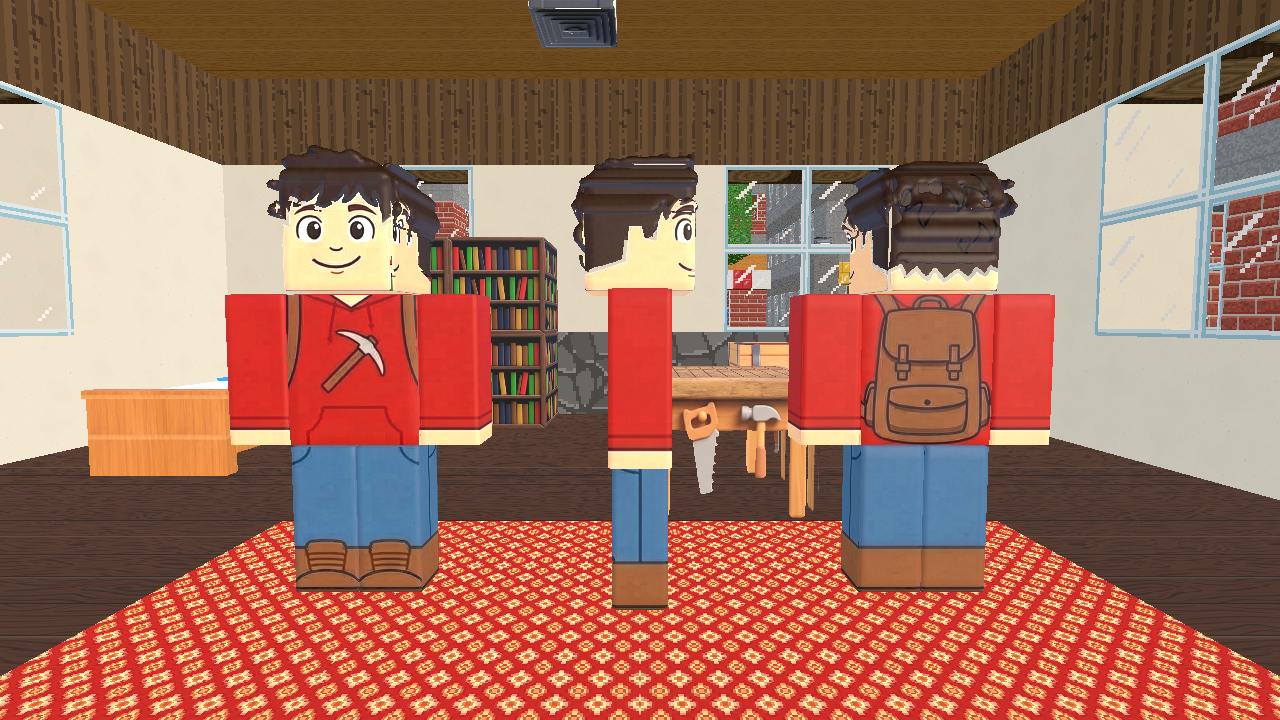
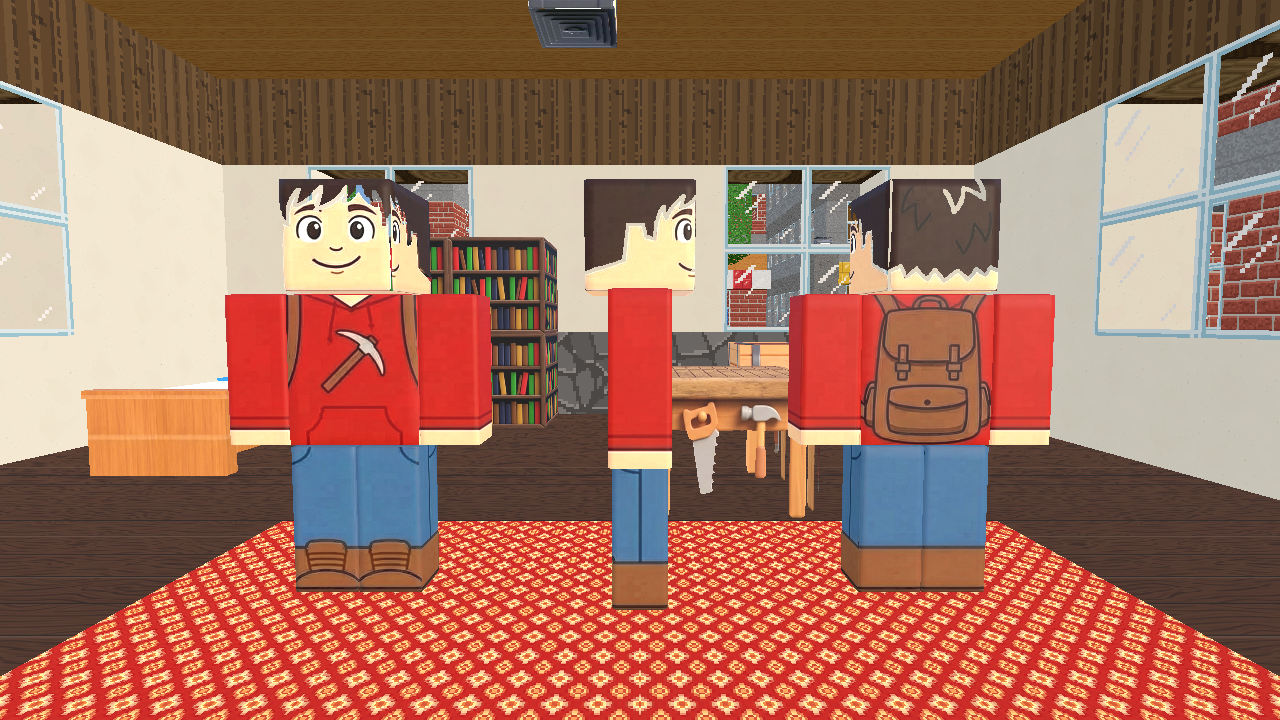
fix: Emir'in 3D saçı kaldırıldı — saç küp kafanın yüzlerine çizili (daha temiz)
Claude-Session: https://claude.ai/code/session_01VF2h6snkXtCQi9ysLrDNVf

Changed region(s): [[0.6562, 0.2139, 0.8125, 0.3667], [0.1875, 0.1833, 0.3438, 0.3361], [0.4375, 0.2139, 0.5625, 0.3667]]

diff --git a/tools/art/build_heads.py b/tools/art/build_heads.py
@@ -17,6 +17,8 @@ SRC = os.path.join(os.path.dirname(__file__), "sources")
 OUT = "assets/textures/actors/"
 S = 1.8 / 620.0
 RES = 50
+## Küp kafalı tarzda saçı ayrı 3D parça yap (False: saç küpün yüzlerine çizili kalır — daha temiz).
+HAIR_3D = False
 CELL, PAD = 512, 24
 
 # kod: (sayfa, önden kutu, yandan kutu, arkadan kutu, burun sağda mı)
@@ -198,8 +200,9 @@ def build(code, sheet, fbox, sbox, bbox, nose_right, scale=None, cube=None):
         dz = ((sbox[0] + sbox[2]) / 2) - ((sz0 + sz1) / 2)
         off_z = (-dz if nose_right else dz) * S
         info["parts"] = [p for p in info["parts"] if p["name"] != "hair"]
-        info["parts"].append({"name": "hair", "mesh_res": code + "_head.res", "size": [W, H, D],
-                              "pos": [round(head["pos"][0] + off_x, 4), round(head["pos"][1] + off_y, 4), round(head["pos"][2] + off_z, 4)]})
+        if HAIR_3D:
+            info["parts"].append({"name": "hair", "mesh_res": code + "_head.res", "size": [W, H, D],
+                                  "pos": [round(head["pos"][0] + off_x, 4), round(head["pos"][1] + off_y, 4), round(head["pos"][2] + off_z, 4)]})
         hs = head["size"]
         head.pop("mesh", None)
         head["mouth"] = [0.0, round(-0.30 * hs[1], 4), round(-hs[2] / 2 - 0.004, 4)]
